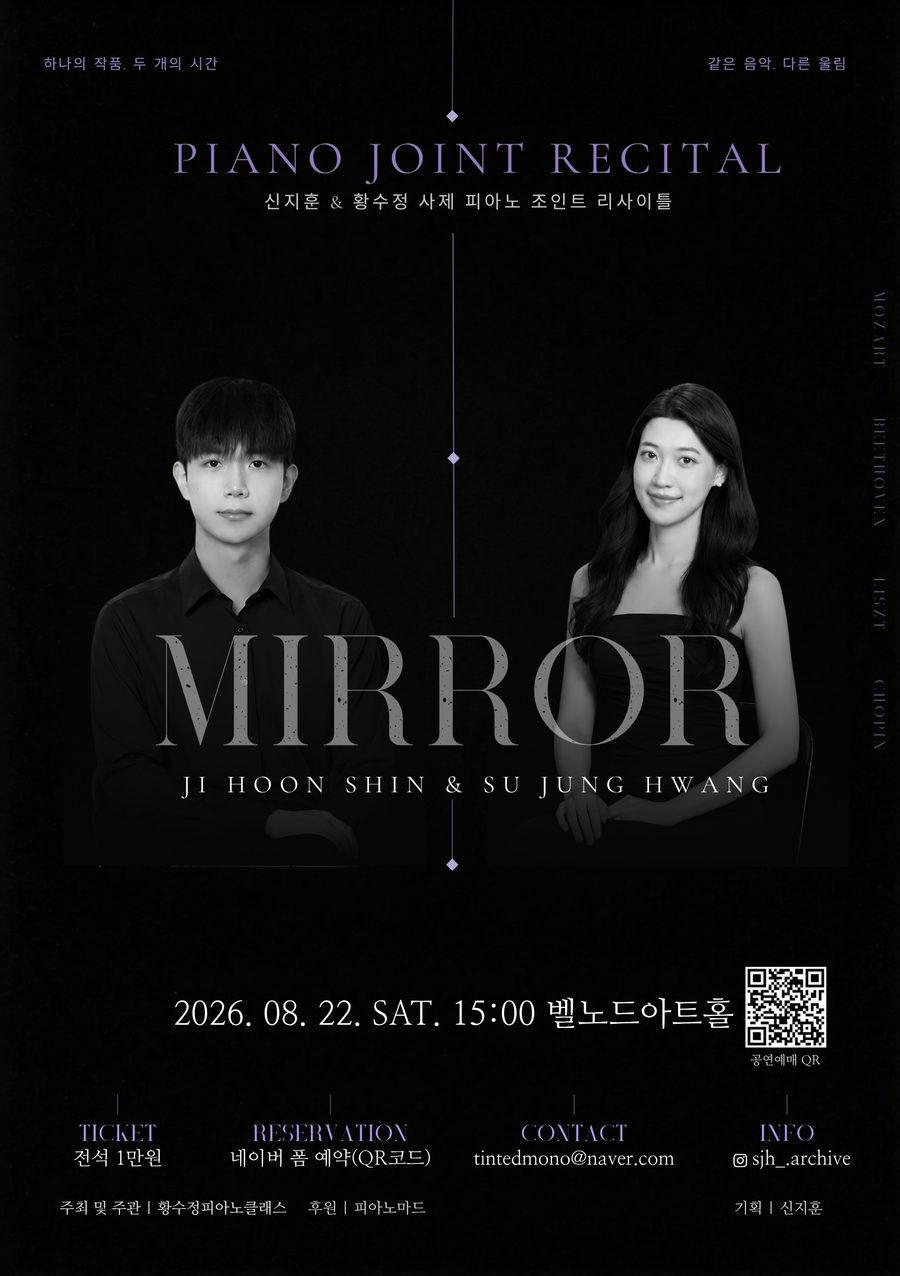
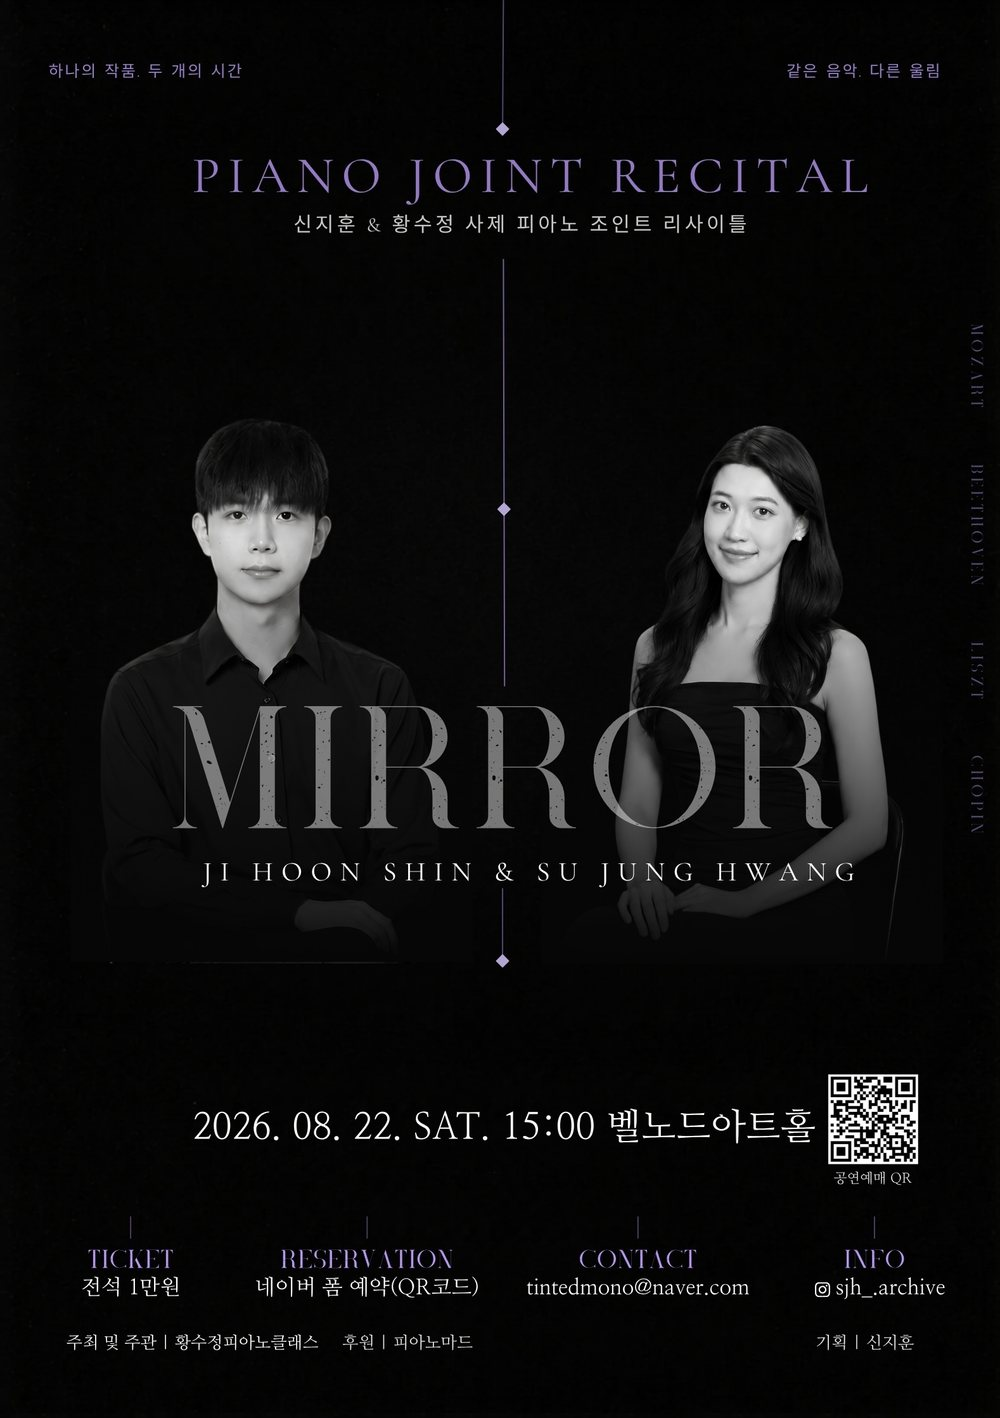
가운뎃점 걷어내기, 홈에 최근 기록 추가
- 사이트 전체의 가운뎃점(·)을 간격, 쉼표, '과·및'으로 바꿈
- 홈 아래 메뉴 목록을 최근 기록(No. 000 MIRROR, 메인 포스터)으로 교체
- 포스터 사진을 고해상도로 교체

Claude-Session: https://claude.ai/code/session_01VXyHiABW1gwesmJp1DKNom

diff --git a/work.html b/work.html
@@ -3,12 +3,12 @@
 <head>
 <meta charset="utf-8">
 <meta name="viewport" content="width=device-width, initial-scale=1, viewport-fit=cover">
-<title>하는 일 · 새김</title>
-<meta name="description" content="대관, 기획, 홍보, 촬영·기록. 연주자가 연주에만 집중할 수 있도록 공연을 만드는 과정을 하나로 잇습니다.">
+<title>하는 일 | 새김</title>
+<meta name="description" content="대관, 기획, 홍보, 촬영과 기록. 연주자가 연주에만 집중할 수 있도록 공연을 만드는 과정을 하나로 잇습니다.">
 <meta property="og:type" content="website">
 <meta property="og:site_name" content="새김 SAEGIM">
-<meta property="og:title" content="하는 일 · 새김">
-<meta property="og:description" content="대관, 기획, 홍보, 촬영·기록. 연주자가 연주에만 집중할 수 있도록 공연을 만드는 과정을 하나로 잇습니다.">
+<meta property="og:title" content="하는 일 | 새김">
+<meta property="og:description" content="대관, 기획, 홍보, 촬영과 기록. 연주자가 연주에만 집중할 수 있도록 공연을 만드는 과정을 하나로 잇습니다.">
 <meta property="og:image" content="https://chromatic01.github.io/saegim/img/host.jpg">
 <meta property="og:url" content="https://chromatic01.github.io/saegim/work.html">
 <meta name="theme-color" content="#fafafa">
@@ -67,10 +67,10 @@
     <article class="service">
       <figure class="tint"><img class="mono" src="img/hands.jpg" alt="위에서 내려다본 네 손의 피아노 연주" width="1000" height="667"></figure>
       <div>
-        <p class="svc-n"><b>04</b>촬영·기록</p>
+        <p class="svc-n"><b>04</b>촬영과 기록</p>
         <h3 class="h3">남기기</h3>
         <p>공연이 하루의 행사로 끝나지 않도록, 연주자의 포트폴리오가 될 기록을 남깁니다.</p>
-        <ul class="ticks"><li>리허설과 본 공연 사진 촬영</li><li>정면 전경과 손·표정 클로즈업, 두 각도 이상 영상 촬영</li><li>영상과 별도로 녹음해 소리를 따로 다듬기</li><li>전체 공연 영상, 곡별 영상, SNS용 짧은 영상, 사진 모음 전달</li><li>연주자가 동의하면 새김 기록 보관함에 공개</li></ul>
+        <ul class="ticks"><li>리허설과 본 공연 사진 촬영</li><li>정면 전경과 손과 표정 클로즈업, 두 각도 이상 영상 촬영</li><li>영상과 별도로 녹음해 소리를 따로 다듬기</li><li>전체 공연 영상, 곡별 영상, SNS용 짧은 영상, 사진 모음 전달</li><li>연주자가 동의하면 새김 기록 보관함에 공개</li></ul>
       </div>
     </article>
   </div>
@@ -87,7 +87,7 @@
       <li><span class="flow-n">2</span><span class="flow-t">상담</span><span class="flow-d">프로그램과 규모를 듣고 맡길 범위를 정합니다.</span></li>
       <li><span class="flow-n">3</span><span class="flow-t">공간 확정</span><span class="flow-d">연주홀과 날짜, 리허설 시간을 정합니다.</span></li>
       <li><span class="flow-n">4</span><span class="flow-t">홍보</span><span class="flow-d">포스터와 팸플릿을 만들고 단계별로 알립니다.</span></li>
-      <li><span class="flow-n">5</span><span class="flow-t">공연</span><span class="flow-d">당일 진행과 촬영·녹음을 맡습니다.</span></li>
+      <li><span class="flow-n">5</span><span class="flow-t">공연</span><span class="flow-d">당일 진행과 촬영, 녹음을 맡습니다.</span></li>
       <li><span class="flow-n">6</span><span class="flow-t">기록 전달</span><span class="flow-d">편집한 영상과 사진을 전달하고 기록으로 남깁니다.</span></li>
     </ol>
   </div>
@@ -128,7 +128,7 @@
 <footer class="foot" style="background:var(--bg)">
   <div class="wrap">
     <p class="invite">연주자라면, 함께 기록을 남겨요.<a href="join.html">함께하기 →</a></p>
-    <div class="foot-row"><span>© 2026 새김 SAEGIM · 울산</span><nav aria-label="외부 링크"><a href="https://www.instagram.com/sjh_.archive/" target="_blank" rel="noopener">Instagram</a><a href="https://www.youtube.com/channel/UCacmF7i-XSiqGQyUx3JiGMw" target="_blank" rel="noopener">YouTube</a></nav></div>
+    <div class="foot-row"><span>© 2026 새김 SAEGIM, 울산</span><nav aria-label="외부 링크"><a href="https://www.instagram.com/sjh_.archive/" target="_blank" rel="noopener">Instagram</a><a href="https://www.youtube.com/channel/UCacmF7i-XSiqGQyUx3JiGMw" target="_blank" rel="noopener">YouTube</a></nav></div>
   </div>
 </footer>
 <script src="assets/site.js"></script>

diff --git a/index.html b/index.html
@@ -43,21 +43,26 @@
 <section class="sec">
   <div class="wrap">
     <div class="statement">
-      <p>연주하고 싶은 사람은 많습니다.<br class="br">하지만 그들이 부담 없이 무대에 설 수 있도록<br class="br">이어 주는 곳은 드뭅니다.</p>
-      <p>공간을 찾은 뒤에도 연주자에게는<br class="br">프로그램과 포스터, 홍보와 관객 모집,<br class="br">촬영과 기록이 남아 있습니다.</p>
-      <p><b>새김은 이 과정을 하나로 잇습니다.</b><br class="br">연주자는 연주에 집중하고,<br class="br">한 번의 무대는 오래 남는 기록이 됩니다.</p>
+      <p>연주하고 싶은 사람은 많습니다. <br class="br">하지만 그들이 부담 없이 무대에 설 수 있도록 <br class="br">이어 주는 곳은 드뭅니다.</p>
+      <p>공간을 찾은 뒤에도 연주자에게는 <br class="br">프로그램과 포스터, 홍보와 관객 모집, <br class="br">촬영과 기록이 남아 있습니다.</p>
+      <p><b>새김은 이 과정을 하나로 잇습니다.</b> <br class="br">연주자는 연주에 집중하고, <br class="br">한 번의 무대는 오래 남는 기록이 됩니다.</p>
     </div>
   </div>
 </section>
 
-<section class="sec" style="padding-top:0;border-top:0">
+<section class="feature stage">
   <div class="wrap">
-    <nav class="doors" aria-label="둘러보기">
-      <a class="door tint" href="work.html"><img class="mono" src="img/host.jpg" alt="" width="1000" height="750"><div><p class="door-t">하는 일</p><p class="door-d">대관, 기획, 홍보, 촬영·기록. 필요한 단계만 골라 맡길 수 있습니다.</p></div><span class="door-go">→</span></a>
-      <a class="door tint" href="archive.html"><img class="mono" src="img/duo.jpg" alt="" width="1000" height="667"><div><p class="door-t">기록</p><p class="door-d">새김에서 열린 무대가 차례로 남는 곳. 첫 칸은 〈MIRROR〉입니다.</p></div><span class="door-go">→</span></a>
-      <a class="door tint" href="about.html"><img class="mono" src="img/portrait.jpg" alt="" width="1000" height="1249" style="object-position:50% 25%"><div><p class="door-t">만드는 사람</p><p class="door-d">무대에 서고, 공연을 직접 만들어 온 피아노 연주자 신지훈.</p></div><span class="door-go">→</span></a>
-      <a class="door tint" href="join.html"><img class="mono" src="img/hands.jpg" alt="" width="1000" height="667"><div><p class="door-t">함께하기</p><p class="door-d">관객이라면 공연 소식을, 연주자라면 무대 상담을.</p></div><span class="door-go">→</span></a>
-    </nav>
+    <a class="feature-card tint" href="mirror.html">
+      <figure><img class="mono" src="img/poster.jpg" alt="MIRROR 공연 포스터, 검은 바탕 위 두 연주자의 흑백 사진" width="1000" height="1418"></figure>
+      <div class="feature-text">
+        <p class="eyebrow">최근 기록</p>
+        <p class="feature-no">No. 000</p>
+        <h2 class="h2">〈MIRROR〉</h2>
+        <p class="feature-sub">신지훈 &amp; 황수정<br>사제 피아노 조인트 리사이틀</p>
+        <p class="feature-meta"><span>2026.08.22</span><span>벨노드아트홀</span></p>
+        <span class="feature-go">기록 보기 →</span>
+      </div>
+    </a>
   </div>
 </section>
 
@@ -65,7 +70,7 @@
 <footer class="foot" style="background:var(--bg)">
   <div class="wrap">
     <p class="invite">연주자라면, 함께 기록을 남겨요.<a href="join.html">함께하기 →</a></p>
-    <div class="foot-row"><span>© 2026 새김 SAEGIM · 울산</span><nav aria-label="외부 링크"><a href="https://www.instagram.com/sjh_.archive/" target="_blank" rel="noopener">Instagram</a><a href="https://www.youtube.com/channel/UCacmF7i-XSiqGQyUx3JiGMw" target="_blank" rel="noopener">YouTube</a></nav></div>
+    <div class="foot-row"><span>© 2026 새김 SAEGIM, 울산</span><nav aria-label="외부 링크"><a href="https://www.instagram.com/sjh_.archive/" target="_blank" rel="noopener">Instagram</a><a href="https://www.youtube.com/channel/UCacmF7i-XSiqGQyUx3JiGMw" target="_blank" rel="noopener">YouTube</a></nav></div>
   </div>
 </footer>
 <script src="assets/site.js"></script>

diff --git a/mirror.html b/mirror.html
@@ -3,11 +3,11 @@
 <head>
 <meta charset="utf-8">
 <meta name="viewport" content="width=device-width, initial-scale=1, viewport-fit=cover">
-<title>〈MIRROR〉 No. 000 · 새김</title>
+<title>〈MIRROR〉 No. 000 | 새김</title>
 <meta name="description" content="2026.08.22 벨노드아트홀, 신지훈 & 황수정 사제 피아노 조인트 리사이틀의 기록.">
 <meta property="og:type" content="website">
 <meta property="og:site_name" content="새김 SAEGIM">
-<meta property="og:title" content="〈MIRROR〉 No. 000 · 새김">
+<meta property="og:title" content="〈MIRROR〉 No. 000 | 새김">
 <meta property="og:description" content="2026.08.22 벨노드아트홀, 신지훈 & 황수정 사제 피아노 조인트 리사이틀의 기록.">
 <meta property="og:image" content="https://chromatic01.github.io/saegim/img/duo.jpg">
 <meta property="og:url" content="https://chromatic01.github.io/saegim/mirror.html">
@@ -31,7 +31,7 @@
 <section class="rec-head">
   <div class="wrap">
     <a class="back" href="archive.html">← 기록</a>
-    <p class="rec-meta">No. 000 · 2026.08.22 SAT 15:00 · 벨노드아트홀</p>
+    <p class="rec-meta"><span>No. 000</span><span>2026.08.22 SAT 15:00</span><span>벨노드아트홀</span></p>
     <h1 class="h1" style="font-size:clamp(32px,5vw,56px)">〈MIRROR〉<br>신지훈 &amp; 황수정 사제 피아노 조인트 리사이틀</h1>
     <p class="rec-tag"><span>하나의 작품, 두 개의 시간</span><span>같은 음악, 다른 울림</span></p>
   </div>
@@ -80,7 +80,7 @@
   <div class="wrap">
     <div class="sec-head"><p class="side">사진</p><h2 class="h2">그날의 장면</h2></div>
     <div class="gallery">
-      <figure class="tint"><img class="mono" src="img/poster.jpg" alt="MIRROR 공연 포스터" width="900" height="1276"><figcaption>포스터</figcaption></figure>
+      <figure class="tint"><img class="mono" src="img/poster.jpg" alt="MIRROR 공연 포스터" width="1000" height="1418"><figcaption>포스터</figcaption></figure>
       <figure class="tint"><img class="mono" src="img/pamphlet.jpg" alt="꽃병 옆에 세워진 MIRROR 공연 팸플릿" width="1000" height="1333"><figcaption>팸플릿</figcaption></figure>
       <figure class="tint"><img class="mono" src="img/hall.jpg" alt="빈 공연장, 그랜드 피아노 앞에 앉은 연주자" width="1000" height="667"><figcaption>리허설</figcaption></figure>
       <figure class="tint"><img class="mono" src="img/duo.jpg" alt="두 연주자가 한 피아노 앞에 나란히 앉아 연주하는 모습" width="1000" height="667"><figcaption>두 사람</figcaption></figure>
@@ -105,7 +105,7 @@
       <dt>장소</dt><dd>벨노드아트홀</dd>
       <dt>연주</dt><dd>신지훈, 황수정</dd>
       <dt>티켓</dt><dd>전석 1만 원</dd>
-      <dt>주최·주관</dt><dd>황수정피아노클래스</dd>
+      <dt>주최 및 주관</dt><dd>황수정피아노클래스</dd>
       <dt>후원</dt><dd>피아노마드</dd>
       <dt>기획</dt><dd>신지훈</dd>
     </dl>
@@ -116,7 +116,7 @@
 <footer class="foot" style="background:var(--bg)">
   <div class="wrap">
     <p class="invite">연주자라면, 함께 기록을 남겨요.<a href="join.html">함께하기 →</a></p>
-    <div class="foot-row"><span>© 2026 새김 SAEGIM · 울산</span><nav aria-label="외부 링크"><a href="https://www.instagram.com/sjh_.archive/" target="_blank" rel="noopener">Instagram</a><a href="https://www.youtube.com/channel/UCacmF7i-XSiqGQyUx3JiGMw" target="_blank" rel="noopener">YouTube</a></nav></div>
+    <div class="foot-row"><span>© 2026 새김 SAEGIM, 울산</span><nav aria-label="외부 링크"><a href="https://www.instagram.com/sjh_.archive/" target="_blank" rel="noopener">Instagram</a><a href="https://www.youtube.com/channel/UCacmF7i-XSiqGQyUx3JiGMw" target="_blank" rel="noopener">YouTube</a></nav></div>
   </div>
 </footer>
 <script src="assets/site.js"></script>

diff --git a/archive.html b/archive.html
@@ -3,11 +3,11 @@
 <head>
 <meta charset="utf-8">
 <meta name="viewport" content="width=device-width, initial-scale=1, viewport-fit=cover">
-<title>기록 · 새김</title>
+<title>기록 | 새김</title>
 <meta name="description" content="새김에서 열린 공연이 차례로 남는 기록 보관함.">
 <meta property="og:type" content="website">
 <meta property="og:site_name" content="새김 SAEGIM">
-<meta property="og:title" content="기록 · 새김">
+<meta property="og:title" content="기록 | 새김">
 <meta property="og:description" content="새김에서 열린 공연이 차례로 남는 기록 보관함.">
 <meta property="og:image" content="https://chromatic01.github.io/saegim/img/duo.jpg">
 <meta property="og:url" content="https://chromatic01.github.io/saegim/archive.html">
@@ -38,7 +38,7 @@
 <section class="stage-pad" style="padding-top:0">
   <div class="wrap">
     <div class="slots">
-      <a class="slot tint" href="mirror.html"><img class="mono" src="img/duo.jpg" alt="두 연주자가 한 피아노 앞에 나란히 앉아 연주하는 모습" width="1000" height="667"><p class="slot-meta">No. 000 · 2026.08.22</p><p class="slot-t">〈MIRROR〉 신지훈 &amp; 황수정<br>사제 피아노 조인트 리사이틀</p><p class="slot-s">벨노드아트홀 · 기획 신지훈</p><span class="slot-go">기록 보기 →</span></a>
+      <a class="slot tint" href="mirror.html"><img class="mono" src="img/duo.jpg" alt="두 연주자가 한 피아노 앞에 나란히 앉아 연주하는 모습" width="1000" height="667"><p class="slot-meta"><span>No. 000</span><span>2026.08.22</span></p><p class="slot-t">〈MIRROR〉 신지훈 &amp; 황수정<br>사제 피아노 조인트 리사이틀</p><p class="slot-s">벨노드아트홀, 기획 신지훈</p><span class="slot-go">기록 보기 →</span></a>
       <div class="slot"><div class="empty">No. 001</div><p class="slot-meta">다음 기록</p></div>
       <div class="slot"><div class="empty">No. 002</div><p class="slot-meta">다음 기록</p></div>
     </div>
@@ -51,7 +51,7 @@
 <footer class="foot" style="background:var(--bg)">
   <div class="wrap">
     <p class="invite">연주자라면, 함께 기록을 남겨요.<a href="join.html">함께하기 →</a></p>
-    <div class="foot-row"><span>© 2026 새김 SAEGIM · 울산</span><nav aria-label="외부 링크"><a href="https://www.instagram.com/sjh_.archive/" target="_blank" rel="noopener">Instagram</a><a href="https://www.youtube.com/channel/UCacmF7i-XSiqGQyUx3JiGMw" target="_blank" rel="noopener">YouTube</a></nav></div>
+    <div class="foot-row"><span>© 2026 새김 SAEGIM, 울산</span><nav aria-label="외부 링크"><a href="https://www.instagram.com/sjh_.archive/" target="_blank" rel="noopener">Instagram</a><a href="https://www.youtube.com/channel/UCacmF7i-XSiqGQyUx3JiGMw" target="_blank" rel="noopener">YouTube</a></nav></div>
   </div>
 </footer>
 <script src="assets/site.js"></script>

diff --git a/about.html b/about.html
@@ -3,11 +3,11 @@
 <head>
 <meta charset="utf-8">
 <meta name="viewport" content="width=device-width, initial-scale=1, viewport-fit=cover">
-<title>만드는 사람 · 새김</title>
+<title>만드는 사람 | 새김</title>
 <meta name="description" content="피아노 연주자 신지훈. 무대에 서고, 공연을 직접 만들어 온 경험에서 새김을 시작했습니다.">
 <meta property="og:type" content="website">
 <meta property="og:site_name" content="새김 SAEGIM">
-<meta property="og:title" content="만드는 사람 · 새김">
+<meta property="og:title" content="만드는 사람 | 새김">
 <meta property="og:description" content="피아노 연주자 신지훈. 무대에 서고, 공연을 직접 만들어 온 경험에서 새김을 시작했습니다.">
 <meta property="og:image" content="https://chromatic01.github.io/saegim/img/portrait.jpg">
 <meta property="og:url" content="https://chromatic01.github.io/saegim/about.html">
@@ -80,7 +80,7 @@
         <h3>연주</h3>
         <ul>
           <li><span class="d">2026.02</span>제1회 클래시카 서울 신인음악회<span class="s">클래시카 서울</span></li>
-          <li><span class="d">2026.08</span>신지훈 &amp; 황수정 사제 피아노 조인트 리사이틀 〈MIRROR〉 기획·연주<span class="s">벨노드아트홀</span></li>
+          <li><span class="d">2026.08</span>신지훈 &amp; 황수정 사제 피아노 조인트 리사이틀 〈MIRROR〉 기획 및 연주<span class="s">벨노드아트홀</span></li>
           <li><span class="d">2026.11.07<span class="soon">예정</span></span>제3회 피아노마드 연주회<span class="s">부산 뮤지카오스</span></li>
           <li><span class="d">2026.11.28<span class="soon">예정</span></span>ON Harmony 프로와 아마추어 동행 콘서트<span class="s">부산대학교 음악관 콘서트홀</span></li>
         </ul>
@@ -104,7 +104,7 @@
 <footer class="foot" style="background:var(--bg)">
   <div class="wrap">
     <p class="invite">연주자라면, 함께 기록을 남겨요.<a href="join.html">함께하기 →</a></p>
-    <div class="foot-row"><span>© 2026 새김 SAEGIM · 울산</span><nav aria-label="외부 링크"><a href="https://www.instagram.com/sjh_.archive/" target="_blank" rel="noopener">Instagram</a><a href="https://www.youtube.com/channel/UCacmF7i-XSiqGQyUx3JiGMw" target="_blank" rel="noopener">YouTube</a></nav></div>
+    <div class="foot-row"><span>© 2026 새김 SAEGIM, 울산</span><nav aria-label="외부 링크"><a href="https://www.instagram.com/sjh_.archive/" target="_blank" rel="noopener">Instagram</a><a href="https://www.youtube.com/channel/UCacmF7i-XSiqGQyUx3JiGMw" target="_blank" rel="noopener">YouTube</a></nav></div>
   </div>
 </footer>
 <script src="assets/site.js"></script>

diff --git a/join.html b/join.html
@@ -3,11 +3,11 @@
 <head>
 <meta charset="utf-8">
 <meta name="viewport" content="width=device-width, initial-scale=1, viewport-fit=cover">
-<title>함께하기 · 새김</title>
+<title>함께하기 | 새김</title>
 <meta name="description" content="관객이라면 새 공연 소식을, 연주자라면 무대 상담을 신청해 주세요.">
 <meta property="og:type" content="website">
 <meta property="og:site_name" content="새김 SAEGIM">
-<meta property="og:title" content="함께하기 · 새김">
+<meta property="og:title" content="함께하기 | 새김">
 <meta property="og:description" content="관객이라면 새 공연 소식을, 연주자라면 무대 상담을 신청해 주세요.">
 <meta property="og:image" content="https://chromatic01.github.io/saegim/img/hands.jpg">
 <meta property="og:url" content="https://chromatic01.github.io/saegim/join.html">
@@ -52,7 +52,7 @@
           <li>악기와 편성 (독주, 듀오, 실내악 등)</li>
           <li>희망하는 공연 시기</li>
           <li>예상 관객 수</li>
-          <li>맡기고 싶은 단계 (대관, 기획, 홍보, 촬영·기록)</li>
+          <li>맡기고 싶은 단계 (대관, 기획, 홍보, 촬영과 기록)</li>
         </ul>
         <a class="cta" href="https://naver.me/xwo3xqHB" target="_blank" rel="noopener">공연 상담 신청 <span>↗</span></a>
         <a class="link" href="https://www.instagram.com/sjh_.archive/" target="_blank" rel="noopener">인스타그램 메시지 보내기 ↗</a>
@@ -74,7 +74,7 @@
 <footer class="foot" style="background:var(--bg)">
   <div class="wrap">
     <p class="invite">연주자라면, 함께 기록을 남겨요.<a href="join.html">함께하기 →</a></p>
-    <div class="foot-row"><span>© 2026 새김 SAEGIM · 울산</span><nav aria-label="외부 링크"><a href="https://www.instagram.com/sjh_.archive/" target="_blank" rel="noopener">Instagram</a><a href="https://www.youtube.com/channel/UCacmF7i-XSiqGQyUx3JiGMw" target="_blank" rel="noopener">YouTube</a></nav></div>
+    <div class="foot-row"><span>© 2026 새김 SAEGIM, 울산</span><nav aria-label="외부 링크"><a href="https://www.instagram.com/sjh_.archive/" target="_blank" rel="noopener">Instagram</a><a href="https://www.youtube.com/channel/UCacmF7i-XSiqGQyUx3JiGMw" target="_blank" rel="noopener">YouTube</a></nav></div>
   </div>
 </footer>
 <script src="assets/site.js"></script>

diff --git a/assets/style.css b/assets/style.css
@@ -256,3 +256,24 @@ a{color:inherit}
 .statement{display:grid;gap:2em;max-width:34em;font-family:var(--serif);font-weight:300;font-size:clamp(18px,2vw,21px);line-height:1.95;letter-spacing:-.005em}
 .statement b{font-weight:500}
 @media (max-width:720px){.statement .br{display:none}.statement{gap:1.5em}}
+
+/* 가운뎃점 대신 간격으로 나누는 정보 줄 */
+.rec-meta,.slot-meta,.feature-meta{display:flex;flex-wrap:wrap;gap:4px 20px}
+
+/* 홈 · 최근 기록 */
+.feature{padding-block:96px}
+.feature-card{display:grid;grid-template-columns:minmax(0,.8fr) minmax(0,1fr);gap:72px;align-items:center;text-decoration:none;color:inherit}
+.feature-card figure img{width:100%;aspect-ratio:1000/1418;object-fit:cover}
+.feature-text{display:grid;gap:14px;justify-items:start}
+.feature-text .eyebrow{color:var(--stage-muted)}
+.feature-no{font-family:var(--mono);font-size:13px;letter-spacing:.08em;color:var(--stage-muted);margin-top:10px}
+.feature-text .h2{font-size:clamp(34px,4.6vw,52px)}
+.feature-sub{font-family:var(--serif);font-weight:300;font-size:20px;line-height:1.6}
+.feature-meta{font-size:13px;color:var(--stage-muted)}
+.feature-go{margin-top:18px;font-size:14px;padding-bottom:4px;border-bottom:1px solid var(--stage-ink)}
+.feature-card:hover .feature-go{border-bottom-color:var(--violet)}
+@media (max-width:720px){
+  .feature{padding-block:64px}
+  .feature-card{grid-template-columns:minmax(0,1fr);gap:32px}
+  .feature-card figure{max-width:340px}
+}
